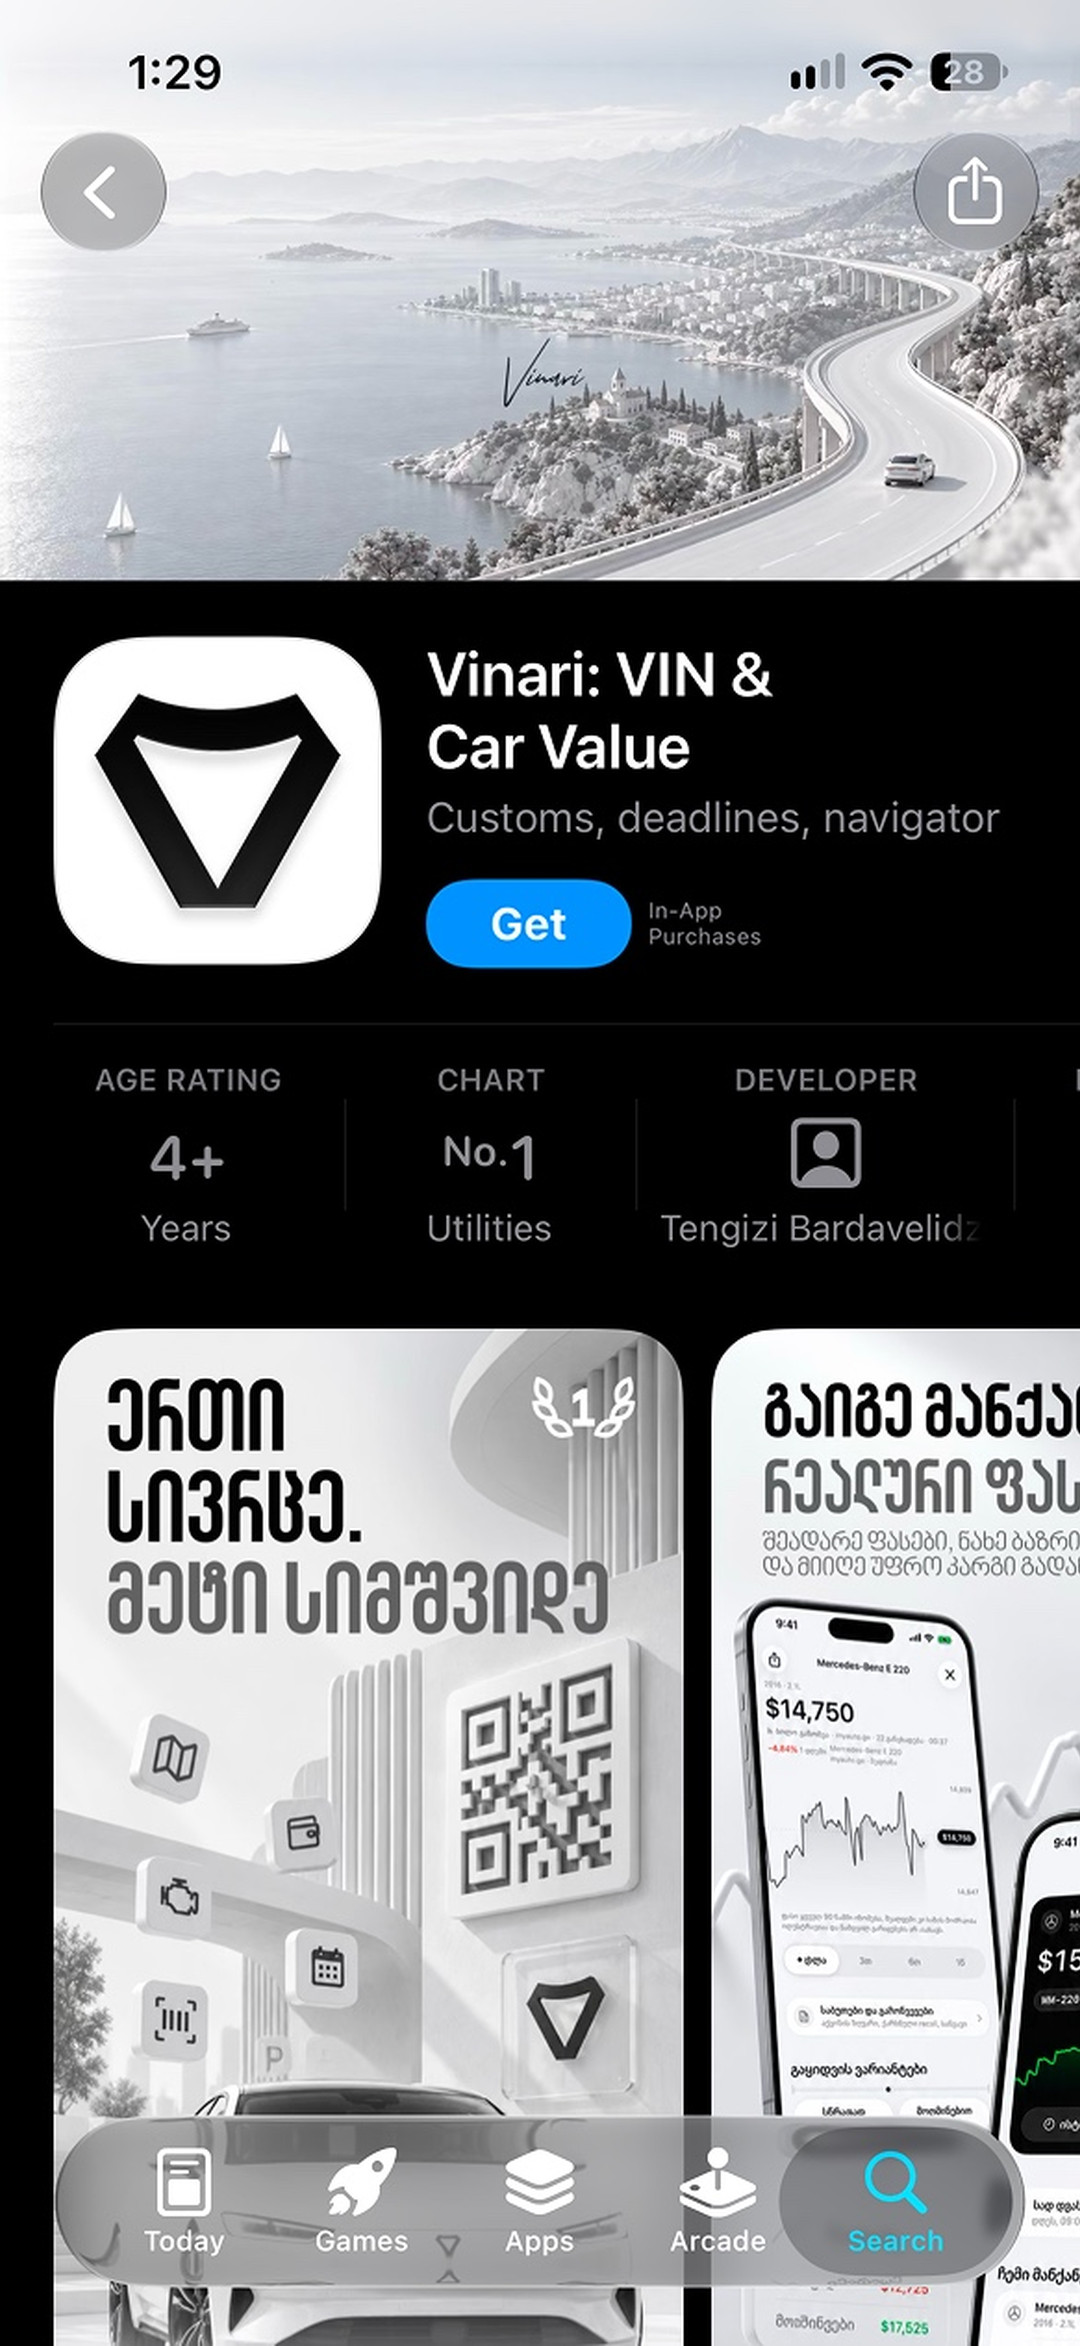
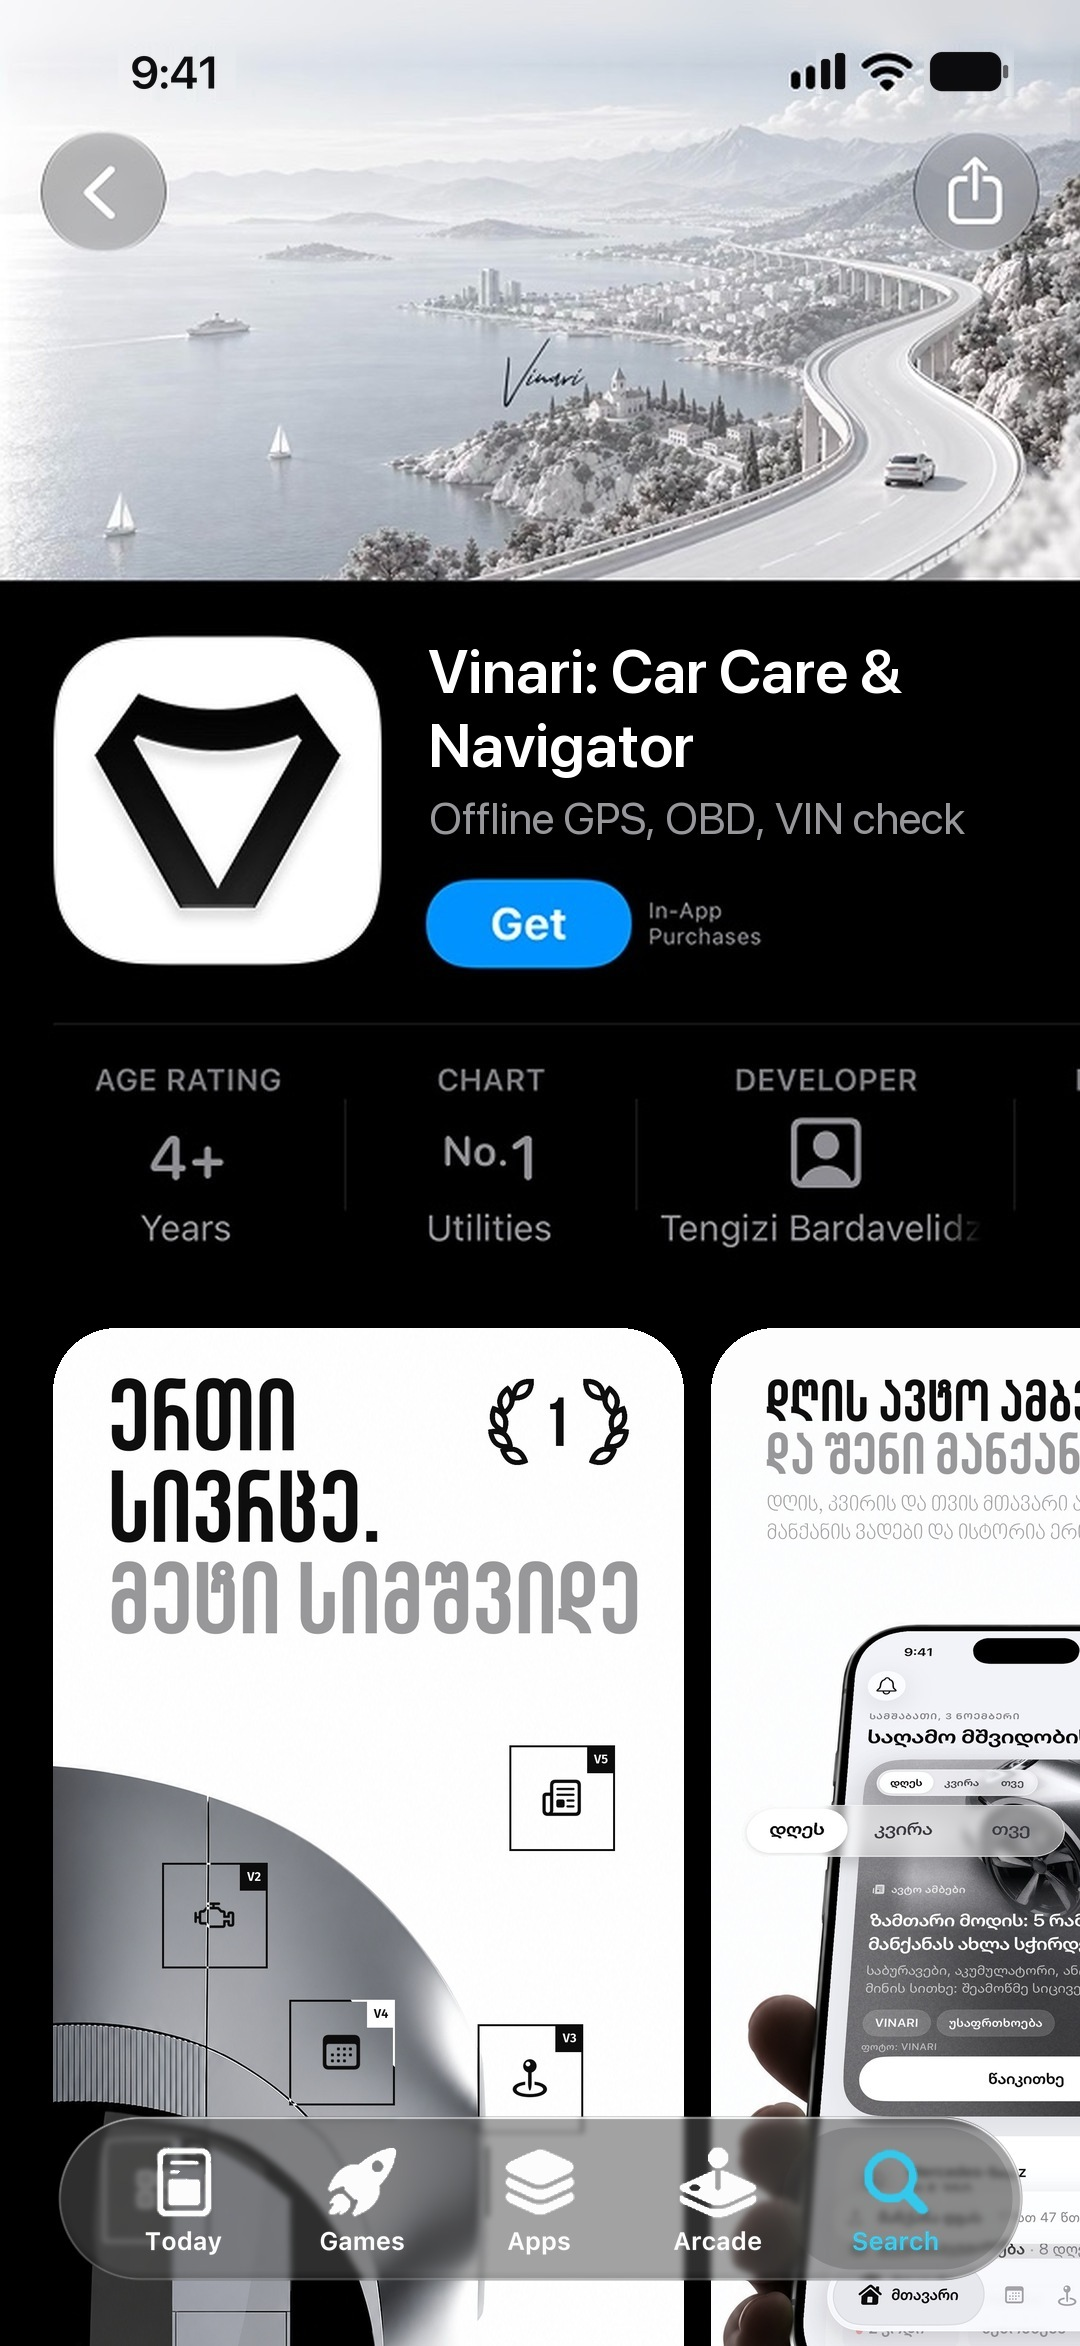
1.0.7 opens now (store.known), the App Store page retaken with the 1.0.7 name and screenshots
- store.known 1.0.7 (the owner, 4 Nov: in review, out soon, do not wait): news, whatsnew and general 1.0.7 facts live
- 26-appstore-page: the real capture with the 1.0.7 name, subtitle and screenshots, 9:41, full battery, the tab bar's
  glass rebuilt over the new screenshots (tools/store-page-107.py); marketGone.screens is empty now
- the Story dice self-test pins its store version

diff --git a/tools/store-page-107.py b/tools/store-page-107.py
@@ -1,0 +1,130 @@
+"""26-appstore-page for 1.0.7: the real 14 Oct App Store capture with the 1.0.7 name, subtitle and screenshots
+(the ones submitted with 1.0.7), the tab bar's glass rebuilt over the new screenshots and its icons lifted from the capture."""
+import sys
+import numpy as np
+from PIL import Image, ImageDraw, ImageFilter, ImageFont
+SRC, SHOTS, OUT = sys.argv[1], sys.argv[2], sys.argv[3]
+old = Image.open(SRC).convert('RGB')
+A = np.asarray(old).astype(np.float32)
+im = old.copy()
+d = ImageDraw.Draw(im)
+SF = '/System/Library/Fonts/SFNS.ttf'
+def font(size, weight):
+    f = ImageFont.truetype(SF, size); f.set_variation_by_axes([100, 28 if size < 40 else 32, 400, weight]); return f
+def fit(text, width, weight):
+    s = 40
+    while font(s + 1, weight).getlength(text) <= width: s += 1
+    return s
+# --- the name and subtitle: the old text's sizes measured by width, then the 1.0.7 words in the same places
+d.rectangle((420, 640, 1075, 850), fill=(0, 0, 0))
+ts = fit('Vinari: VIN &', 343, 600); ss = fit('Customs, deadlines, navigator', 569, 400)
+tf, sf = font(ts, 600), font(ss, 400)
+asc = lambda f, t: f.getbbox(t)[1]
+d.text((428 - tf.getbbox('V')[0], 650 - asc(tf, 'V')), 'Vinari: Car Care &', font=tf, fill=(255, 255, 255))
+d.text((428 - tf.getbbox('N')[0], 724 - asc(tf, 'N')), 'Navigator', font=tf, fill=(255, 255, 255))
+d.text((429 - sf.getbbox('O')[0], 802 - asc(sf, 'O')), 'Offline GPS, OBD, VIN check', font=sf, fill=(150, 150, 155))
+# --- the screenshots: two cards as on the page (x 53 and 711, top 1328, 631 wide, radius 63)
+d.rectangle((0, 1300, 1080, 2346), fill=(0, 0, 0))
+for i, x in enumerate((53, 711)):
+    s = Image.open(f'{SHOTS}/vinari-ios-{i + 1}.png').convert('RGB')
+    s = s.resize((631, round(631 * s.height / s.width)), Image.LANCZOS)
+    m = Image.new('L', s.size, 0); ImageDraw.Draw(m).rounded_rectangle((0, 0, s.width - 1, s.height - 1), 63, fill=255)
+    im.paste(s, (x, 1328), m)
+# --- the tab bar: liquid glass as on the capture (owner 4 Nov: "more glass, like the original"): the screenshots stay
+# visible through it, lightly blurred and dimmed, bent near the rim like a lens, a bright rim on top, the selected tab
+# a denser grey pill
+from scipy import ndimage
+P = (58, 2116, 1022, 2280); SEL = (782, 2127, 1012, 2269)
+U = np.asarray(im).astype(np.float32)
+def pill_sdf(box, h, w):
+    x0, y0, x1, y1 = box; r = (y1 - y0) / 2
+    yy, xx = np.mgrid[0:h, 0:w].astype(np.float32)
+    cx = np.clip(xx, x0 + r, x1 - r); cy = (y0 + y1) / 2
+    return np.hypot(xx - cx, yy - cy) - r, xx, yy, cx, cy   # < 0 inside
+H, W = U.shape[:2]
+sd, xx, yy, cx, cy = pill_sdf(P, H, W)
+inside = sd < 0
+band = 30.0
+k = np.clip(1 + sd / band, 0, 1) ** 2 * inside      # 1 at the rim, 0 deeper than the band
+nx, ny = xx - cx, yy - cy; nn = np.hypot(nx, ny) + 1e-6
+src_x = xx + nx / nn * k * 16; src_y = yy + ny / nn * k * 16   # the rim samples from further out: a lens
+bent = np.stack([ndimage.map_coordinates(U[..., c], [src_y, src_x], order=1, mode='nearest') for c in range(3)], -1)
+soft = np.stack([ndimage.gaussian_filter(bent[..., c], 3.2) for c in range(3)], -1)
+glass = soft * 0.46 + 46
+sd2 = pill_sdf(SEL, H, W)[0]
+selin = np.clip(0.5 - sd2, 0, 1)[..., None]
+glass = glass * (1 - selin) + (soft * 0.34 + 52) * selin
+# the rim: bright along the top, fainter round the sides, gone at the bottom; a soft shade under the bottom edge
+ring = np.clip(1 - np.abs(sd + 1.5) / 1.6, 0, 1)
+topness = np.clip((cy - yy) / ((P[3] - P[1]) / 2), -1, 1)
+glass += (ring * (0.35 + 0.45 * np.clip(topness, 0, 1)) * 150)[..., None]
+inner = np.clip(1 + sd / 10, 0, 1) * inside * np.clip(-topness, 0, 1)
+glass -= (inner * 18)[..., None]
+alpha = np.clip(0.5 - sd, 0, 1)[..., None]
+U = U * (1 - alpha) + glass * alpha
+im = Image.fromarray(np.clip(U, 0, 255).astype(np.uint8))
+# the icons and labels, lifted from the capture: cores of pure ink only (white: every channel >= 226; cyan: blue far over
+# red), grown by 2 px for their soft edges, the edge alpha read against the glass's own grey; never off the pill's rim
+reg = A[P[1]:P[3], P[0]:P[2]]
+mn = reg.min(2); cb = reg[..., 2] - reg[..., 0]
+sdl = pill_sdf((0, 0, P[2] - P[0], P[3] - P[1]), P[3] - P[1], P[2] - P[0])[0]
+keep = np.clip((-sdl - 8) / 4, 0, 1)
+cw = (mn >= 226) & (keep > 0); cc = (cb >= 110) & (reg[..., 1] >= 140) & (keep > 0)
+cw = ndimage.binary_opening(cw, iterations=1) | (cw & ndimage.binary_dilation(ndimage.binary_opening(cw, iterations=1), iterations=2))
+nearw = ndimage.binary_dilation(cw, iterations=2); nearc = ndimage.binary_dilation(cc, iterations=2)
+aw = np.where(cw, 1.0, np.clip((mn - 150) / 105, 0, 1) * nearw) * keep
+ac = np.where(cc, 1.0, np.clip((cb - 20) / 110, 0, 1) * nearc) * keep
+aw = np.where(ac > 0, 0, aw)
+aw[106:] = 0; ac[106:] = 0   # the labels are drawn below in SF Pro (lifting lost their thin strokes)
+cur = np.asarray(im).astype(np.float32)
+blk = cur[P[1]:P[3], P[0]:P[2]]
+blk = blk * (1 - aw[..., None]) + np.array([252, 252, 252], np.float32) * aw[..., None]
+blk = blk * (1 - ac[..., None]) + np.array([52, 200, 236], np.float32) * ac[..., None]
+cur[P[1]:P[3], P[0]:P[2]] = blk
+K = 4
+lay = Image.new('RGBA', ((P[2] - P[0]) * K, (P[3] - P[1]) * K), (0, 0, 0, 0)); g = ImageDraw.Draw(lay)
+def lf(size):
+    f = ImageFont.truetype(SF, size); f.set_variation_by_axes([100, 17, 400, 650]); return f
+s = 20
+while lf((s + 1) * K).getlength('Today') <= 79 * K: s += 1
+f = lf(s * K)
+for word, cxl, col in (('Today', 183.5, (252, 252, 252)), ('Games', 362, (252, 252, 252)), ('Apps', 539, (252, 252, 252)), ('Arcade', 717.5, (252, 252, 252)), ('Search', 895.5, (52, 200, 236))):
+    bb = f.getbbox(word); base = f.getmetrics()[0]
+    g.text(((cxl - P[0]) * K - (bb[0] + bb[2]) / 2, (2250 - P[1]) * K - base), word, font=f, fill=col + (255,))
+lay = lay.resize((P[2] - P[0], P[3] - P[1]), Image.LANCZOS)
+blk = Image.fromarray(np.clip(cur[P[1]:P[3], P[0]:P[2]], 0, 255).astype(np.uint8)).convert('RGBA')
+cur[P[1]:P[3], P[0]:P[2]] = np.asarray(Image.alpha_composite(blk, lay).convert('RGB')).astype(np.float32)
+print('labels', s)
+Image.fromarray(np.clip(cur, 0, 255).astype(np.uint8)).save(OUT, quality=93)
+print('->', OUT, 'title', ts, 'sub', ss)
+
+# --- the status bar (owner 4 Nov: 9:41 and a full battery; the signal full too): the old marks painted out with the sky
+# above and below them (a vertical blend per column), then drawn again at 4x and scaled down (soft edges)
+im = Image.open(OUT).convert('RGB')
+B = np.asarray(im).astype(np.float32)
+for x0, y0, x1, y1 in ((118, 48, 236, 98), (816, 48, 850, 94), (924, 46, 1014, 96)):
+    top, bot = B[y0 - 2, x0:x1], B[y1 + 2, x0:x1]
+    t = np.linspace(0, 1, y1 - y0)[:, None, None]
+    B[y0:y1, x0:x1] = top[None] * (1 - t) + bot[None] * t
+im = Image.fromarray(np.clip(B, 0, 255).astype(np.uint8))
+K = 4
+lay = Image.new('RGBA', (1080 * K, 140 * K), (0, 0, 0, 0))
+g = ImageDraw.Draw(lay)
+INK = (12, 12, 14, 255)
+# 9:41, SF semibold, digits as tall as the old ones (y 56-88), centred where the old time was
+tf = ImageFont.truetype(SF, 45 * K); tf.set_variation_by_axes([100, 28, 400, 600])
+bb = tf.getbbox('9:41')
+s = 33 * K / (bb[3] - bb[1])
+tf = ImageFont.truetype(SF, round(45 * K * s)); tf.set_variation_by_axes([100, 28, 400, 600])
+bb = tf.getbbox('9:41')
+cx = 174.5 * K
+g.text((cx - (bb[0] + bb[2]) / 2, 56 * K - bb[1]), '9:41', font=tf, fill=INK)
+for x0, x1, y0 in ((821, 830, 59), (835, 845, 53)):
+    g.rounded_rectangle((x0 * K, y0 * K, x1 * K, 89 * K), 3 * K, fill=INK)
+g.rounded_rectangle((930 * K, 52 * K, 1001 * K, 91 * K), 12 * K, fill=INK)
+g.rounded_rectangle((1003 * K, 65 * K, 1008 * K, 78 * K), 2 * K, fill=(12, 12, 14, 150))
+lay = lay.resize((1080, 140), Image.LANCZOS)
+top = im.crop((0, 0, 1080, 140)).convert('RGBA')
+im.paste(Image.alpha_composite(top, lay).convert('RGB'), (0, 0))
+im.save(OUT, quality=93)
+print('status bar: 9:41, full battery and signal')
